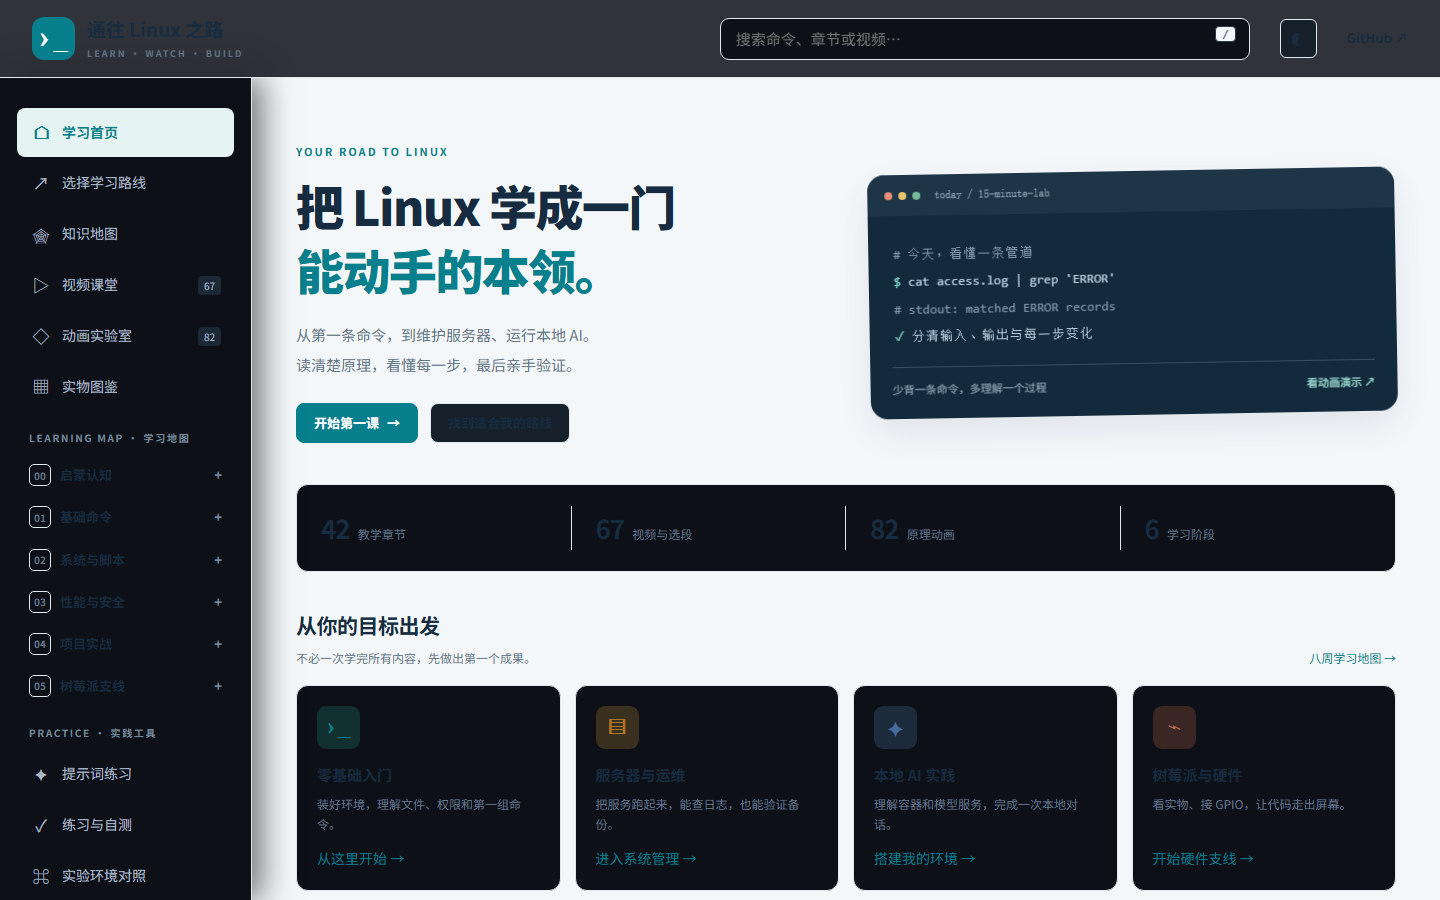
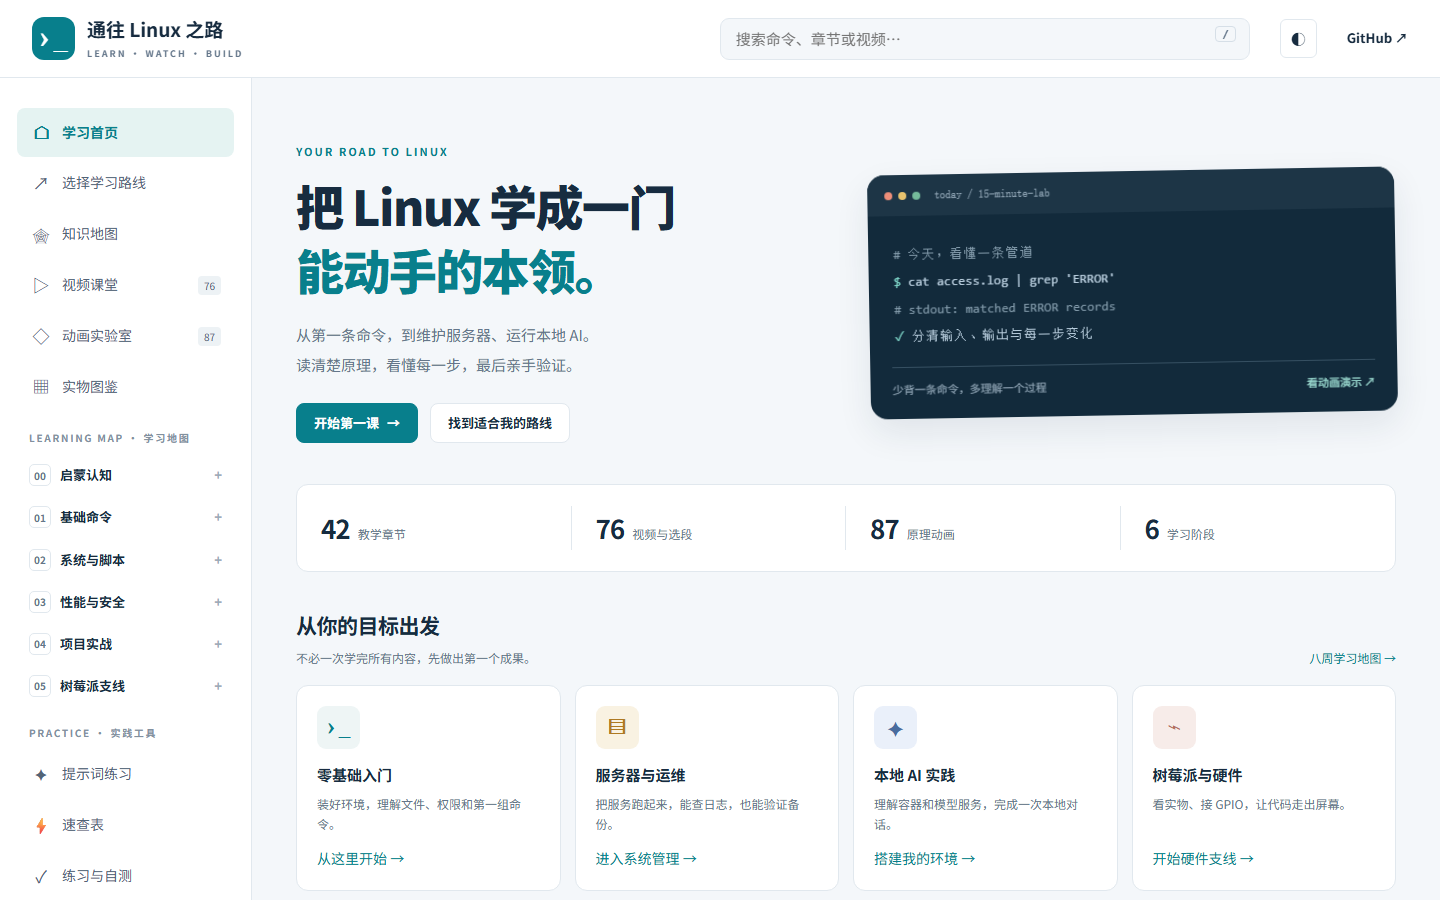
docs(readme): 首页实拍刷新为 76 视频/87 动画并新增深色实拍
旧实拍与 OG 卡片停留在 67/82（OG 甚至为 32/66）且带浅色模式渲染
bug；由 site-screenshot 重新生成，README 并列展示浅色与深色。

diff --git a/README.md b/README.md
@@ -10,7 +10,9 @@
 
 ![终端打字动画](assets/animations/terminal-typing.svg)
 
-![学习站首页实拍：左侧学习地图，右侧目标导向入口](assets/screenshot-home.png)
+![学习站首页实拍（浅色）：左侧学习地图，右侧目标导向入口](assets/screenshot-home.png)
+
+![学习站首页实拍（深色模式）](assets/screenshot-home-dark.png)
 
 > 灵感源自「通往 AGI 之路」：**用清晰的路线图，把一件复杂的事拆成每天都能走的一小步。**
 > AI 时代，许多模型服务、容器和云服务器以 Linux 为基础 —— 从命令行到本地 AI，沿着这条路一步步动手。
